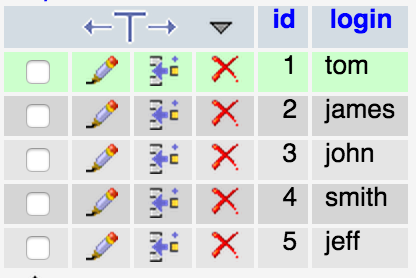
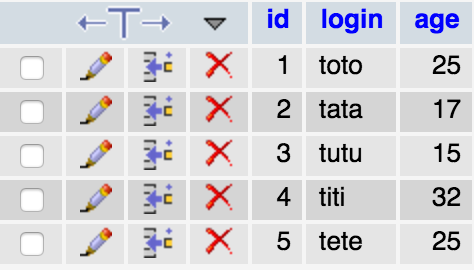
Update SQL Avancé lesson

diff --git a/cours/trim_3-2016_05_02-cours_31-SQL_avance/index.html b/cours/trim_3-2016_05_02-cours_31-SQL_avance/index.html
@@ -85,6 +85,7 @@ DELETE FROM
                 <section>
                     <p>Dans PhpMyAdmin, créez une base de données et éxecutez la requête SQL suivante</p>
                     <pre><code contenteditable class="sql">
+
 SET SQL_MODE="NO_AUTO_VALUE_ON_ZERO";
 SET time_zone = "+00:00";
 
@@ -121,21 +122,21 @@ INSERT INTO `games` (`id`, `id_user`, `score`, `won`) VALUES
 CREATE TABLE `users` (
   `id` int(11) NOT NULL AUTO_INCREMENT,
   `login` varchar(50) NOT NULL,
+  `age` int(11) NOT NULL,
   PRIMARY KEY (`id`)
 ) ENGINE=InnoDB  DEFAULT CHARSET=utf8 AUTO_INCREMENT=6 ;
 
-INSERT INTO `users` (`id`, `login`) VALUES
-(1, 'toto'),
-(2, 'tata'),
-(3, 'tutu'),
-(4, 'titi'),
-(5, 'tete');
-
+INSERT INTO `users` (`id`, `login`, `age`) VALUES
+(1, 'Toto', 25),
+(2, 'Tata', 17),
+(3, 'Tutu', 15),
+(4, 'John', 32),
+(5, 'Timmy', 25);
                     </code></pre>
                 </section>
 
                 <section>
-                    <p>Cette requêtes va créer et remplir une table <span class="highlight">users</span> et une table <span class="highlight">games</span></p>
+                    <p>Cette requêtes va créer et remplir une table <span class="hl">users</span> et une table <span class="hl">games</span></p>
                     <p>
                         <img src="src/img/table-users.png" width="300" alt="">
                         <img src="src/img/table-games.png" width="400" alt="">
@@ -148,7 +149,7 @@ INSERT INTO `users` (`id`, `login`) VALUES
                 </section>
 
                 <section>
-                    <p>Pour rajouter une condition à notre requête, on utilise le terme <span class="highlight">WHERE</span> suivi de notre condition</p>
+                    <p>Pour rajouter une condition à notre requête, on utilise le terme <span class="hl">WHERE</span> suivi de notre condition</p>
                     <pre><code contenteditable class="sql">
 SELECT
     *
@@ -160,8 +161,8 @@ WHERE
                 </section>
 
                 <section>
-                    <p><span class="highlight">AND</span> et <span class="highlight">OR</span> permettent de combiner plusieurs conditions</p>
-                    <p>Les <span class="highlight">AND</span> s'effectuent avant les <span class="highlight">OR</span></p>
+                    <p><span class="hl">AND</span> et <span class="hl">OR</span> permettent de combiner plusieurs conditions</p>
+                    <p>Les <span class="hl">AND</span> s'effectuent avant les <span class="hl">OR</span></p>
                     <pre><code contenteditable class="sql">
 SELECT
     *
@@ -187,37 +188,59 @@ WHERE
                 <section>
                     <p>Les conditions supportent plusieurs opérateurs</p>   
                     <ul>
-                        <li><span class="highlight">=</span> : Égal à</li>
-                        <li><span class="highlight">></span> : Supérieur à</li>
-                        <li><span class="highlight"><</span> : Inférieur à</li>
-                        <li><span class="highlight">>=</span> : Supérieur ou égal à</li>
-                        <li><span class="highlight"><=</span> : Inférieur ou égal à</li>
-                        <li><span class="highlight">!=</span> ou <span class="highlight"><></span> : Inférieur ou égal à</li>
+                        <li><span class="hl">=</span> : Égal à</li>
+                        <li><span class="hl">></span> : Supérieur à</li>
+                        <li><span class="hl"><</span> : Inférieur à</li>
+                        <li><span class="hl">>=</span> : Supérieur ou égal à</li>
+                        <li><span class="hl"><=</span> : Inférieur ou égal à</li>
+                        <li><span class="hl">!=</span> ou <span class="hl"><></span> : Différent de</li>
                     </ul>
+                </section>
+
+                <section>
+                    <pre><code contenteditable class="sql">
+SELECT
+    *
+FROM
+    users
+WHERE
+    age > 21
+                    </code></pre>
                 </section>
 
                 <section>
                     <p>Les conditions supportent plusieurs opérateurs</p>   
                     <ul>
-                        <li><span class="highlight">IN (...)</span> : Compris dans</li>
-                        <li><span class="highlight">NOT IN (...)</span> : En dehors de</li>
-                        <li><span class="highlight">BETWEEN ... AND ...</span> : Compris entre</li>
-                        <li><span class="highlight">NOT BETWEEN ... AND ...</span> : En dehors de</li>
-                        <li><span class="highlight">LIKE</span> : Ressemblant à (pour les chaînes de caractères)</li>
-                        <li><span class="highlight">NOT LIKE</span> : Ne ressemblant à (pour les chaînes de caractères)</li>
+                        <li><span class="hl">IN (...)</span> : Compris dans</li>
+                        <li><span class="hl">NOT IN (...)</span> : En dehors de</li>
+                        <li><span class="hl">BETWEEN ... AND ...</span> : Compris entre</li>
+                        <li><span class="hl">NOT BETWEEN ... AND ...</span> : En dehors de</li>
+                        <li><span class="hl">LIKE</span> : Ressemblant à (pour les chaînes de caractères)</li>
+                        <li><span class="hl">NOT LIKE</span> : Ne ressemblant à (pour les chaînes de caractères)</li>
                     </ul>
                 </section>
 
                 <section>
+                    <pre><code contenteditable class="sql">
+SELECT
+    *
+FROM
+    users
+WHERE
+    age BETWEEN 16 AND 25
+                    </code></pre>
+                </section>
+
+                <section>
                     <h2>Exercice</h2>
-                    <p>Trouvez les requêtes SQL permettant de récupérer les 'games' pour les conditions suivantes :</p>
+                    <p>Trouvez les requêtes SQL permettant de récupérer les <span class="u">games</span> pour les conditions suivantes :</p>
                     <ul>
-                        <li>Score est inférieur à 1000</li>
-                        <li>Utilisateurs ayant les ID 1, 2 et 4</li>
-                        <li>Utilisateurs n'ayant pas l'ID 1</li>
-                        <li>Utilisateurs ayant un score entre 5000 et 6000</li>
-                        <li>Utilisateurs ayant un score supérieur à 6000 ou inférieur à 5000</li>
-                        <li>Utilisateurs ayant l'ID 1 et un score supérieur à 6000</li>
+                        <li>Games dont le score est inférieur à 1000</li>
+                        <li>Games dont l'utilisateur a pour ID 1, 2 ou 3</li>
+                        <li>Games dont l'utilisateur a un ID différent de 1 ou 3</li>
+                        <li>Games ayant un score entre 5000 et 6000</li>
+                        <li>Games ayant un score supérieur à 6000 ou inférieur à 5000</li>
+                        <li>Games dont l'utilisateur a pour ID 1 et un score supérieur à 6000</li>
                     </ul>
                 </section>
 
@@ -229,6 +252,7 @@ WHERE
                 <section>
                     <p>SQL permet de récupérer des données directement calculées grâce à certaines fonctions</p>
                     <p>Une nouvelle colonne ayant le nom de la fonction va être créée</p>
+                    <p>MySQL le fait bien plus vite que PHP</p>
                     <pre><code contenteditable class="sql">
 SELECT
     SUM(score)
@@ -242,11 +266,11 @@ FROM
 
                 <section>
                     <ul>
-                        <li><span class="highlight">SUM()</span> : Somme</li>
-                        <li><span class="highlight">AVG()</span> : Moyenne</li>
-                        <li><span class="highlight">MIN()</span> : Minimum</li>
-                        <li><span class="highlight">MAX()</span> : Maximum</li>
-                        <li><span class="highlight">COUNT()</span> : Nombre de résultats</li>
+                        <li><span class="hl">SUM()</span> : Somme</li>
+                        <li><span class="hl">AVG()</span> : Moyenne</li>
+                        <li><span class="hl">MIN()</span> : Minimum</li>
+                        <li><span class="hl">MAX()</span> : Maximum</li>
+                        <li><span class="hl">COUNT()</span> : Nombre de résultats</li>
                     </ul>
                 </section>
 
@@ -258,12 +282,12 @@ SELECT
 FROM
     games
                     </code></pre>
-                    <p>Le <span class="highlight">AS</span> est optionnel</p>
+                    <p>Le <span class="hl">AS</span> est optionnel</p>
                 </section>
 
                 <section>
                     <h2>Exercice</h2>
-                    <p>Trouvez les requêtes SQL permettant de récupérer les 'games' suivantes :</p>
+                    <p>Trouvez les requêtes SQL permettant de récupérer les <span class="u">games</span> suivantes :</p>
                     <ul>
                         <li>Score minimum du joueur ayant l'ID 2</li>
                         <li>Nombre de parties gagnées du joueur ayant l'ID 2</li>
@@ -278,7 +302,7 @@ FROM
                 </section>
 
                 <section>
-                    <p>SQL permet d'ordonner les résultats avec <span class="highlight">ORDER BY</span> suivi de la colonne définissant l'ordre</p>
+                    <p>SQL permet d'ordonner les résultats avec <span class="hl">ORDER BY</span> suivi de la colonne définissant l'ordre</p>
                     <pre><code contenteditable class="sql">
 SELECT
     *
@@ -290,7 +314,7 @@ ORDER BY
                 </section>
 
                 <section>
-                    <p>Pour ordonner dans l'ordre inverse, il suffit de préciser <span class="highlight">DESC</span> après la colonne</p>
+                    <p>Pour ordonner dans l'ordre inverse, il suffit de préciser <span class="hl">DESC</span> après la colonne</p>
                     <pre><code contenteditable class="sql">
 SELECT
     *
@@ -302,7 +326,7 @@ ORDER BY
                 </section>
 
                 <section>
-                    <p>Pour ordonner dans le désordre, il suffit de préciser <span class="highlight">RAND()</span> à la place de la colonne</p>
+                    <p>Pour ordonner dans le désordre, il suffit de préciser <span class="hl">RAND()</span> à la place de la colonne</p>
                     <pre><code contenteditable class="sql">
 SELECT
     *
@@ -315,7 +339,7 @@ ORDER BY
 
                 <section>
                     <h2>Exercice</h2>
-                    <p>Trouvez les requêtes SQL permettant de récupérer les 'games' suivantes :</p>
+                    <p>Trouvez les requêtes SQL permettant de récupérer les <span class="u">games</span> suivantes :</p>
                     <ul>
                         <li>Toutes les parties du joueur ayant l'ID 2 de la meilleure à la moins bonne</li>
                         <li>Toutes les parties du joueur ayant l'ID 2 de la moins bonne à la meilleure</li>
@@ -329,7 +353,7 @@ ORDER BY
                 </section>
 
                 <section>
-                    <p><span class="highlight">LIMIT</span> permet de limiter le nombre de résultats</p>
+                    <p><span class="hl">LIMIT</span> permet de limiter le nombre de résultats</p>
                     <pre><code contenteditable class="sql">
 SELECT
     *
@@ -341,7 +365,7 @@ LIMIT
                 </section>
     
                 <section>
-                    <p><span class="highlight">LIMIT</span> permet aussi de commencer à partir d'une certaine ligne</p>
+                    <p><span class="hl">LIMIT</span> permet aussi de commencer à partir d'une certaine ligne (utile pour une pagination)</p>
                     <pre><code contenteditable class="sql">
 SELECT
     *
@@ -354,7 +378,7 @@ LIMIT
 
                 <section>
                     <h2>Exercice</h2>
-                    <p>Trouvez les requêtes SQL permettant de récupérer les 'games' suivantes :</p>
+                    <p>Trouvez les requêtes SQL permettant de récupérer les <span class="u">games</span> suivantes :</p>
                     <ul>
                         <li>Trois meilleures parties du joueur ayant l'ID 2 de la meilleure à la moins bonne</li>
                         <li>Trois pires parties du joueur ayant l'ID 2 de la moins bonne à la meilleure</li>
@@ -367,7 +391,7 @@ LIMIT
                 </section>
 
                 <section>
-                    <p><span class="highlight">Group by</span> permet de regrouper les résultats par valeur d'une colonne</p>
+                    <p><span class="hl">Group by</span> permet de regrouper les résultats par valeur d'une colonne</p>
                     <pre><code contenteditable class="sql">
 SELECT
     *
@@ -379,7 +403,7 @@ GROUP BY
                 </section>
 
                 <section>
-                    <p>Seul, il ne sert pas à grand chose. Mais combinez avec les opérations précédentes, <span class="highlight">GROUP BY</span> permet de faire des choses intéressantes</p>
+                    <p>Seul, il ne sert pas à grand chose. Mais combinez avec les opérations précédentes, <span class="hl">GROUP BY</span> permet de faire des choses intéressantes</p>
                     <pre><code contenteditable class="sql">
 SELECT
     id, id_user, AVG(score) AS average_score
@@ -427,11 +451,11 @@ WHERE
                     <p>Les jointures permettent de lier des tables entre elles au sein d'une même requête SQL</p>
                     <p>Dans notre exemple, si on souhaite récupérer toutes les parties et y ajouter le nom du joueur correspondant, il faudrait faire plusieurs requêtes et un traitement PHP</p>
                     <p>Grâce aux jointures, on peut le faire en une requête</p>
-                    <p>Il existe différents type de jointures. Nous allons commencer par <span class="highlight">JOIN LEFT</span></p>
+                    <p>Il existe différents type de jointures. Nous allons commencer par <span class="hl">JOIN LEFT</span></p>
                 </section>
 
                 <section>
-                    <p>La jointure consiste à faire une première requête <span class="highlight">SELECT</span> sur une table intiale</p>
+                    <p>La jointure consiste à faire une première requête <span class="hl">SELECT</span> sur une table intiale</p>
                     <pre><code contenteditable data-trim class="sql">
 SELECT 
     *
@@ -451,7 +475,7 @@ ON
                 </section>
 
                 <section>
-                    <p>On demande à Mysql de récupérer toutes les lignes de la table <span class="highlight">games</span> et de les lier aux lignes de la table <span class="highlight">users</span> avec comme critère <span class="highlight">users.id = games.id_user</span></p>
+                    <p>On demande à MySQL de récupérer toutes les lignes de la table <span class="hl">games</span> et de les lier aux lignes de la table <span class="hl">users</span> avec comme critère que <span class="hl">id</span> de la table users soit égal à <span class="hl">id_user</span> de la table games</p>
                     <pre><code contenteditable data-trim class="sql">
 SELECT 
     *
@@ -465,7 +489,7 @@ ON
                 </section>
 
                 <section>
-                    <p>Les noms de tables peuvent parfois être long à écrire. Il est possible d'utiliser des <span class="highlight">alias</span> sur celles-ci.</p>
+                    <p>Les noms de tables peuvent parfois être long à écrire. Il est possible d'utiliser des <span class="hl">alias</span> sur celles-ci.</p>
                     <pre><code contenteditable data-trim class="sql">
 SELECT 
     *
@@ -476,11 +500,11 @@ LEFT JOIN
 ON
     u.id = g.id_user
                     </code></pre>
-                    <p>Le <span class="highlight">AS</span> est optionnel</p>
+                    <p>Le <span class="hl">AS</span> est optionnel</p>
                 </section>
 
                 <section>
-                    <p>Il est évidemment possible de préciser quelles colonnes renvoyer à la place de <span class="highlight">*</span> en spécifiant bien la table</p>
+                    <p>Il est évidemment possible de préciser quelles colonnes renvoyer à la place de <span class="hl">*</span> en spécifiant bien la table</p>
                     <pre><code contenteditable data-trim class="sql">
 SELECT 
     g.id, g.score, g.won, u.login
@@ -495,12 +519,12 @@ ON
 
                 <section>
                     <p>Si MySQL ne trouve pas de correspondance, il renvoie tout de même l'élément initial et met les autres valeurs à NULL</p>
-                    <p>Le principe de <span class="highlight">LEFT JOIN</span> est donc de partir de la table initiale pour chercher les correspondances dans la table jointe</p>
+                    <p>Le principe de <span class="hl">LEFT JOIN</span> est donc de partir de la table initiale pour chercher les correspondances dans la table jointe</p>
                 </section>
 
                 <section>
-                    <p><span class="highlight">RIGHT JOIN</span> permet de faire l'inverse : partir de la table jointe pour chercher les correspondances dans la table initiale</p>
-                    <p><span class="highlight">INNER JOIN</span> fonctionne comme LEFT JOIN, mais ne renvoie pas l'élément si aucune correspondance n'a été trouvé</p>
+                    <p><span class="hl">RIGHT JOIN</span> permet de faire l'inverse : partir de la table jointe pour chercher les correspondances dans la table initiale</p>
+                    <p><span class="hl">INNER JOIN</span> fonctionne comme LEFT JOIN, mais ne renvoie pas l'élément si aucune correspondance n'a été trouvé</p>
                 </section>
 
                 <section>
@@ -522,7 +546,7 @@ ON
                 </section>
 
                 <section>
-                    <p>Il existe encore d'autres jointures, mais <span class="highlight">LEFT JOIN</span> suffit dans la majorité des cas</p>
+                    <p>Il existe encore d'autres jointures, mais <span class="hl">LEFT JOIN</span> suffit dans la majorité des cas</p>
                 </section>
             </div>
         </div>

diff --git a/README.md b/README.md
@@ -44,19 +44,22 @@ Optionnels
 - [x] HTML/PHP formulaire
 - [x] PHP/SQL Base de données MySQL
 - [x] PHP/SQL Mots de passes
-- [ ] PHP cookies/sessions
-- [ ] PHP en vrac
-- [ ] PHP regex
-- [ ] PHP routing
-- [ ] PHP/SQL Avancé
-- [ ] PHP APIs
+- [x] PHP cookies/sessions
+- [x] PHP en vrac
+- [x] PHP regex
+- [x] PHP routing
+- [x] PHP APIs
 
 ### Trimestre 3
 
-- [ ] VHOST
+- [ ] PHP/SQL Avancé
 - [ ] PHP orienté objet
 - [ ] PHP frameworks
 - [ ] Silex/Slim/Cake (?)
+
+Optionnels
+
+- [ ] VHOST
 
 
 # LIENS
